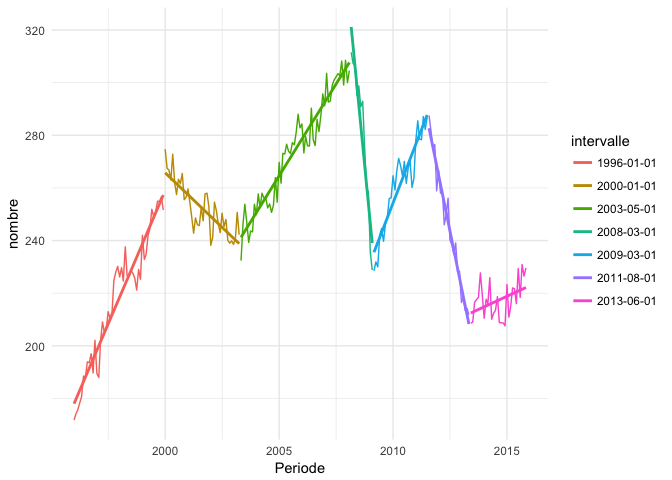
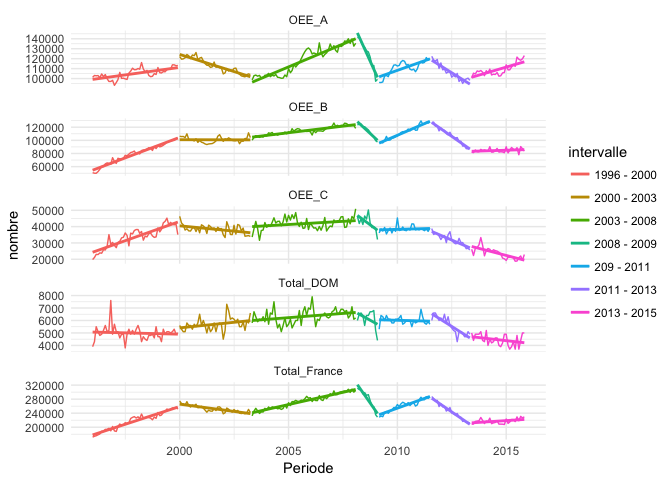
Add heatmap trend analysis

diff --git a/offres_emplois.md b/offres_emplois.md
@@ -309,17 +309,73 @@ dates_changement <- offres %>%
   `$`(Periode) #pour avoir un vecteur
 
 dates_changement <- c(dates_changement, as_date("2015-12-01"))
+interv <- c("1996 - 2000", "2000 - 2003", "2003 - 2008", "2008 - 2009",
+            "209 - 2011", "2011 - 2013", "2013 - 2015")
+
+offres_totales$intervalle <- cut(offres_totales$Periode, dates_changement,
+                                 labels = interv)
+offres$intervalle <-cut(offres$Periode, dates_changement, labels = interv)
+offres_long$intervalle <- cut(offres_long$Periode, dates_changement, labels = interv)
 
 
-offres_totales$intervalle <- cut(offres$Periode, dates_changement)
 
-ggplot(offres_totales %>% filter(categorie == "Total_France"), 
+ggplot(offres_long, 
        aes(Periode, nombre, color = intervalle)) +
   geom_line() +
-  geom_smooth(method = "lm", se = FALSE)
+  geom_smooth(method = "lm", se = FALSE) +
+  facet_wrap(~ categorie, scales = "free_y", ncol = 1)
 ```
 
 ![](offres_emplois_files/figure-markdown_github/unnamed-chunk-10-1.png)
+
+``` r
+offres_modeles <- offres_long %>% 
+  nest(-categorie, - intervalle) %>%
+  mutate(models = map(data, ~ lm(nombre ~ Periode, data = .))) %>%
+  mutate(tidied = map(models, tidy)) %>%
+  unnest(tidied) %>% 
+  filter(term == "Periode")
+library(knitr)
+kable(arrange(offres_modeles, -p.value))
+```
+
+| categorie     | intervalle  | term    |    estimate|  std.error|  statistic|  p.value|
+|:--------------|:------------|:--------|-----------:|----------:|----------:|--------:|
+| OEE\_B        | 2000 - 2003 | Periode |    -0.21101|    1.99583|   -0.10573|  0.91635|
+| Total\_DOM    | 209 - 2011  | Periode |    -0.13204|    0.23271|   -0.56742|  0.57512|
+| Total\_DOM    | 1996 - 2000 | Periode |    -0.11718|    0.19212|   -0.60993|  0.54491|
+| OEE\_C        | 209 - 2011  | Periode |     1.00680|    1.39685|    0.72076|  0.47725|
+| OEE\_B        | 2013 - 2015 | Periode |     2.82529|    2.14928|    1.31453|  0.19933|
+| Total\_DOM    | 2008 - 2009 | Periode |    -2.64327|    1.91162|   -1.38274|  0.19684|
+| Total\_DOM    | 2013 - 2015 | Periode |    -0.54348|    0.30901|   -1.75876|  0.08955|
+| Total\_DOM    | 2000 - 2003 | Periode |     0.48795|    0.22645|    2.15478|  0.03758|
+| OEE\_C        | 2008 - 2009 | Periode |   -26.91779|   10.30833|   -2.61127|  0.02598|
+| Total\_France | 2013 - 2015 | Periode |    10.96497|    4.59836|    2.38454|  0.02411|
+| OEE\_C        | 2003 - 2008 | Periode |     2.11625|    0.88690|    2.38611|  0.02043|
+| Total\_DOM    | 2003 - 2008 | Periode |     0.37147|    0.13609|    2.72962|  0.00846|
+| OEE\_C        | 2000 - 2003 | Periode |    -3.57868|    1.14927|   -3.11388|  0.00350|
+| OEE\_C        | 2013 - 2015 | Periode |    -9.47138|    1.63872|   -5.77976|  0.00000|
+| Total\_France | 2008 - 2009 | Periode |  -243.56247|   24.64165|   -9.88418|  0.00000|
+| OEE\_A        | 209 - 2011  | Periode |    21.19480|    3.39563|    6.24179|  0.00000|
+| OEE\_A        | 2013 - 2015 | Periode |    17.61106|    2.76760|    6.36329|  0.00000|
+| OEE\_B        | 2008 - 2009 | Periode |   -84.13244|    7.23208|  -11.63324|  0.00000|
+| OEE\_A        | 2008 - 2009 | Periode |  -132.51223|   10.87279|  -12.18751|  0.00000|
+| OEE\_C        | 2011 - 2013 | Periode |   -15.66544|    2.02729|   -7.72727|  0.00000|
+| OEE\_A        | 1996 - 2000 | Periode |     8.27594|    1.34831|    6.13800|  0.00000|
+| Total\_DOM    | 2011 - 2013 | Periode |    -3.03277|    0.38633|   -7.85028|  0.00000|
+| OEE\_A        | 2011 - 2013 | Periode |   -37.49127|    3.46082|  -10.83307|  0.00000|
+| Total\_France | 2000 - 2003 | Periode |   -22.67936|    2.55466|   -8.87763|  0.00000|
+| Total\_France | 209 - 2011  | Periode |    61.19465|    4.53191|   13.50305|  0.00000|
+| Total\_France | 2011 - 2013 | Periode |  -116.43387|    5.08305|  -22.90628|  0.00000|
+| OEE\_C        | 1996 - 2000 | Periode |    12.93011|    1.05366|   12.27161|  0.00000|
+| OEE\_B        | 2011 - 2013 | Periode |   -63.27716|    2.64850|  -23.89168|  0.00000|
+| OEE\_A        | 2000 - 2003 | Periode |   -18.88966|    1.22449|  -15.42661|  0.00000|
+| OEE\_B        | 209 - 2011  | Periode |    38.99305|    1.81504|   21.48328|  0.00000|
+| OEE\_B        | 2003 - 2008 | Periode |    10.96371|    0.70326|   15.58977|  0.00000|
+| OEE\_A        | 2003 - 2008 | Periode |    25.15333|    1.25109|   20.10520|  0.00000|
+| Total\_France | 1996 - 2000 | Periode |    55.42336|    2.21485|   25.02352|  0.00000|
+| Total\_France | 2003 - 2008 | Periode |    38.23328|    1.43519|   26.63980|  0.00000|
+| OEE\_B        | 1996 - 2000 | Periode |    34.21731|    1.03193|   33.15862|  0.00000|
 
 France et DOM
 -------------
